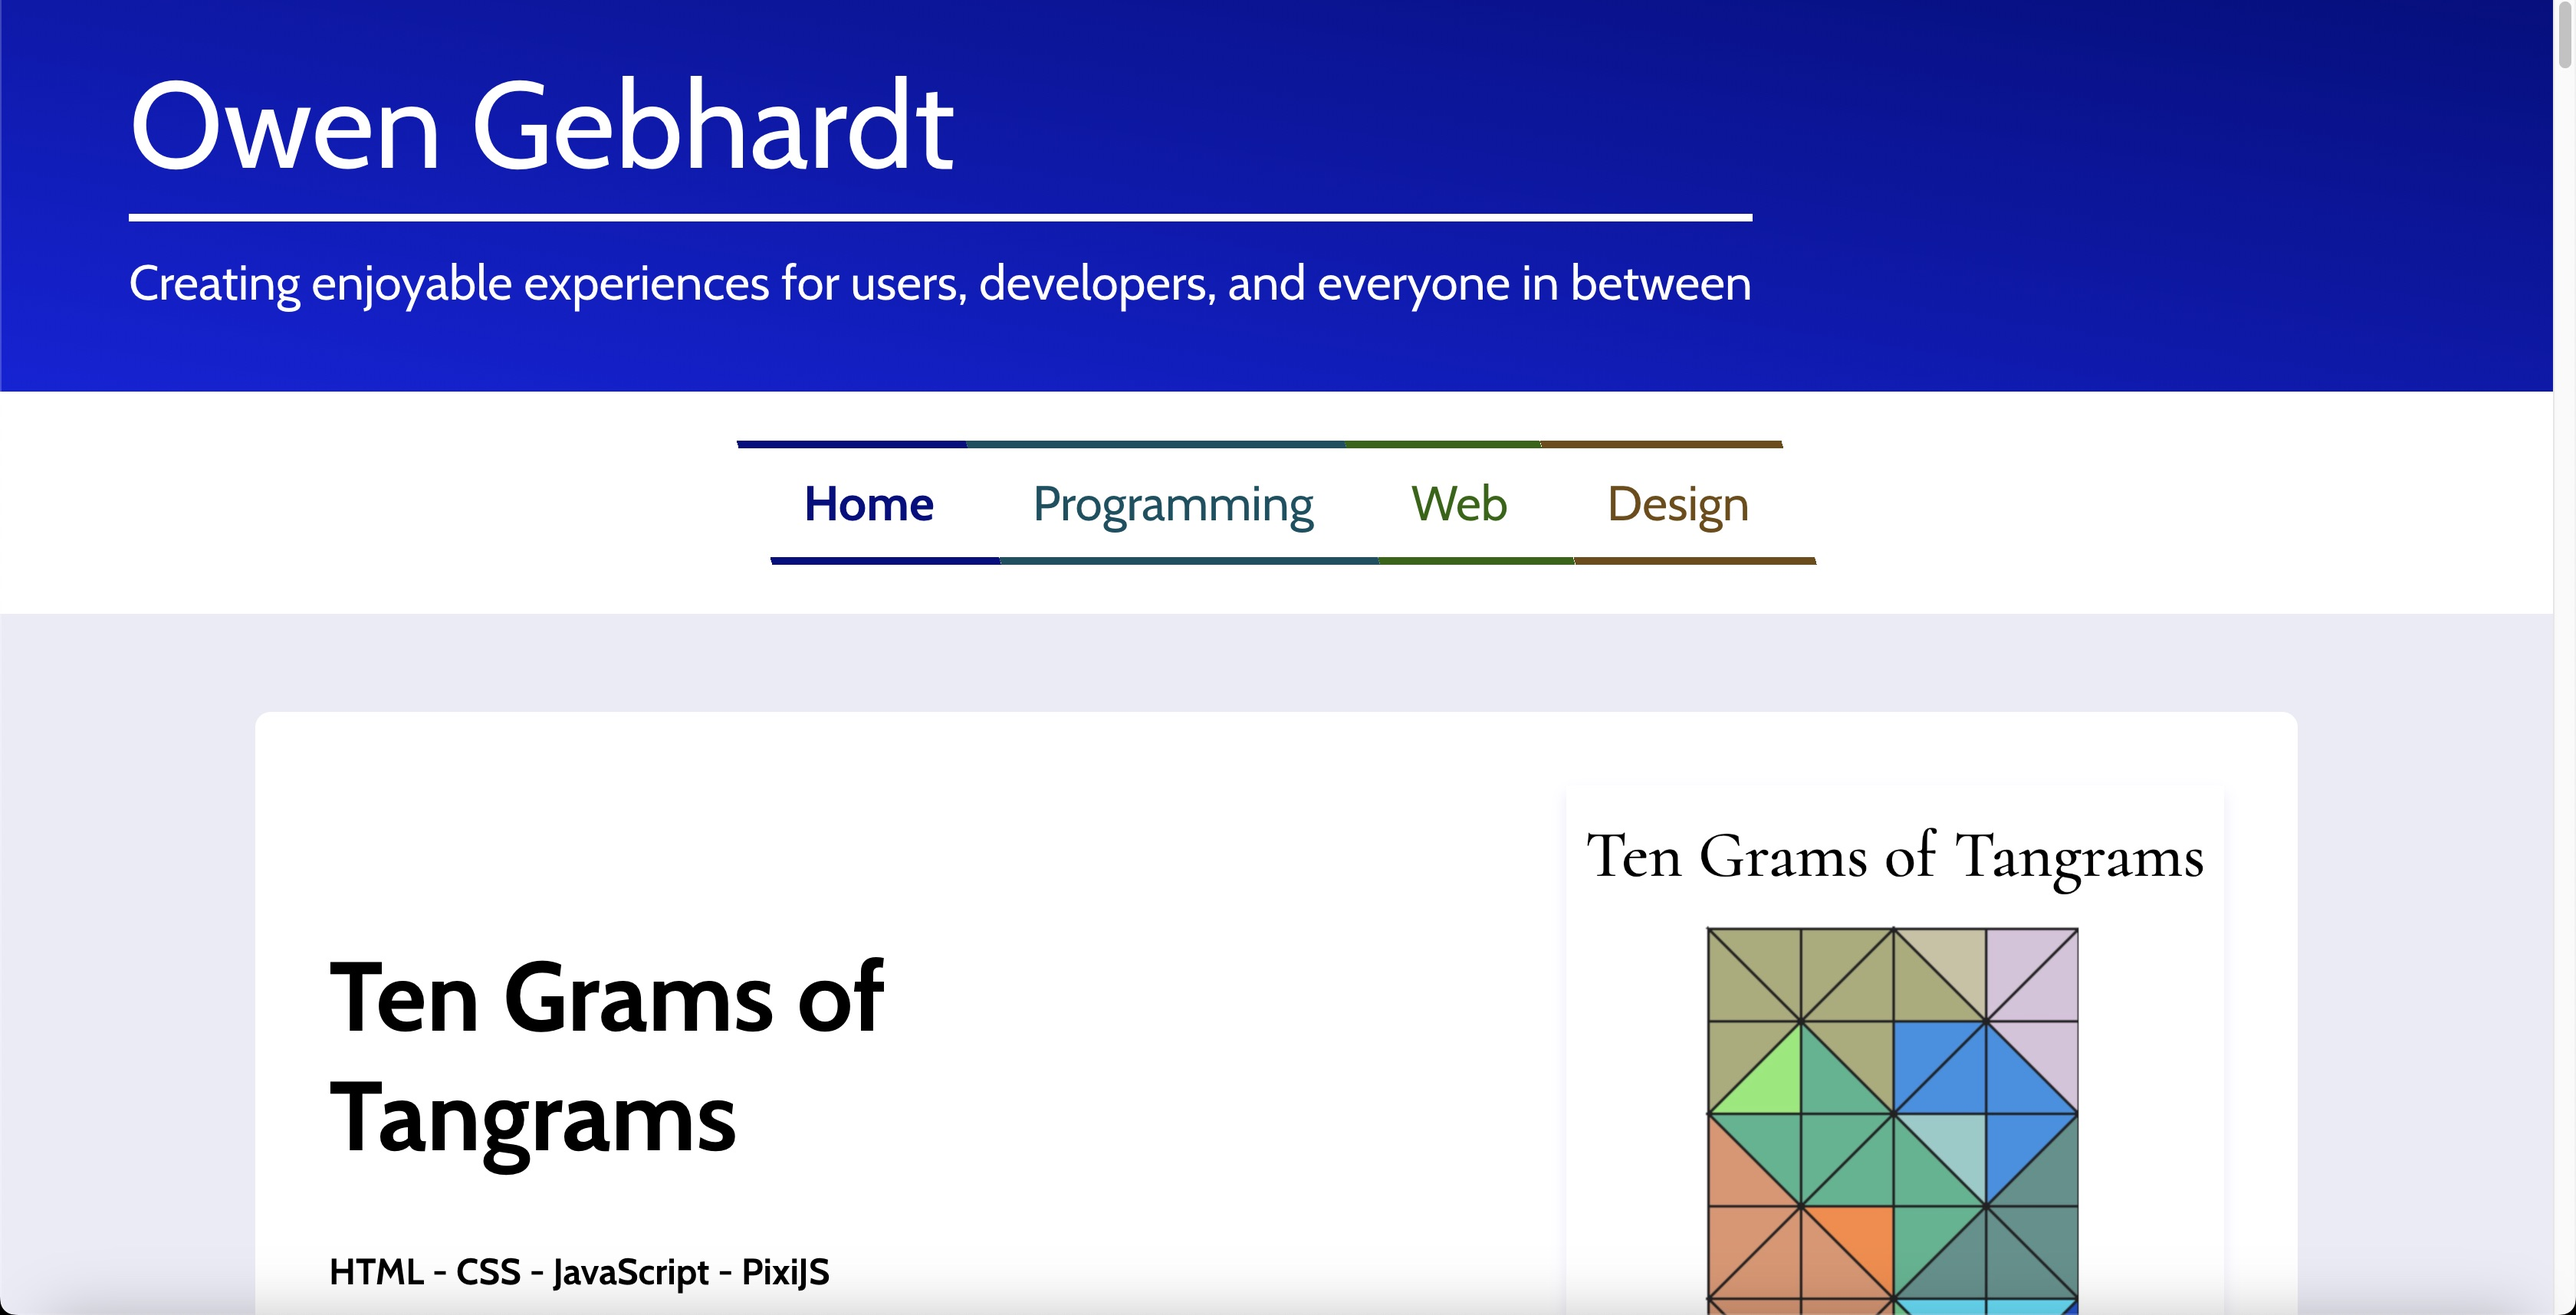
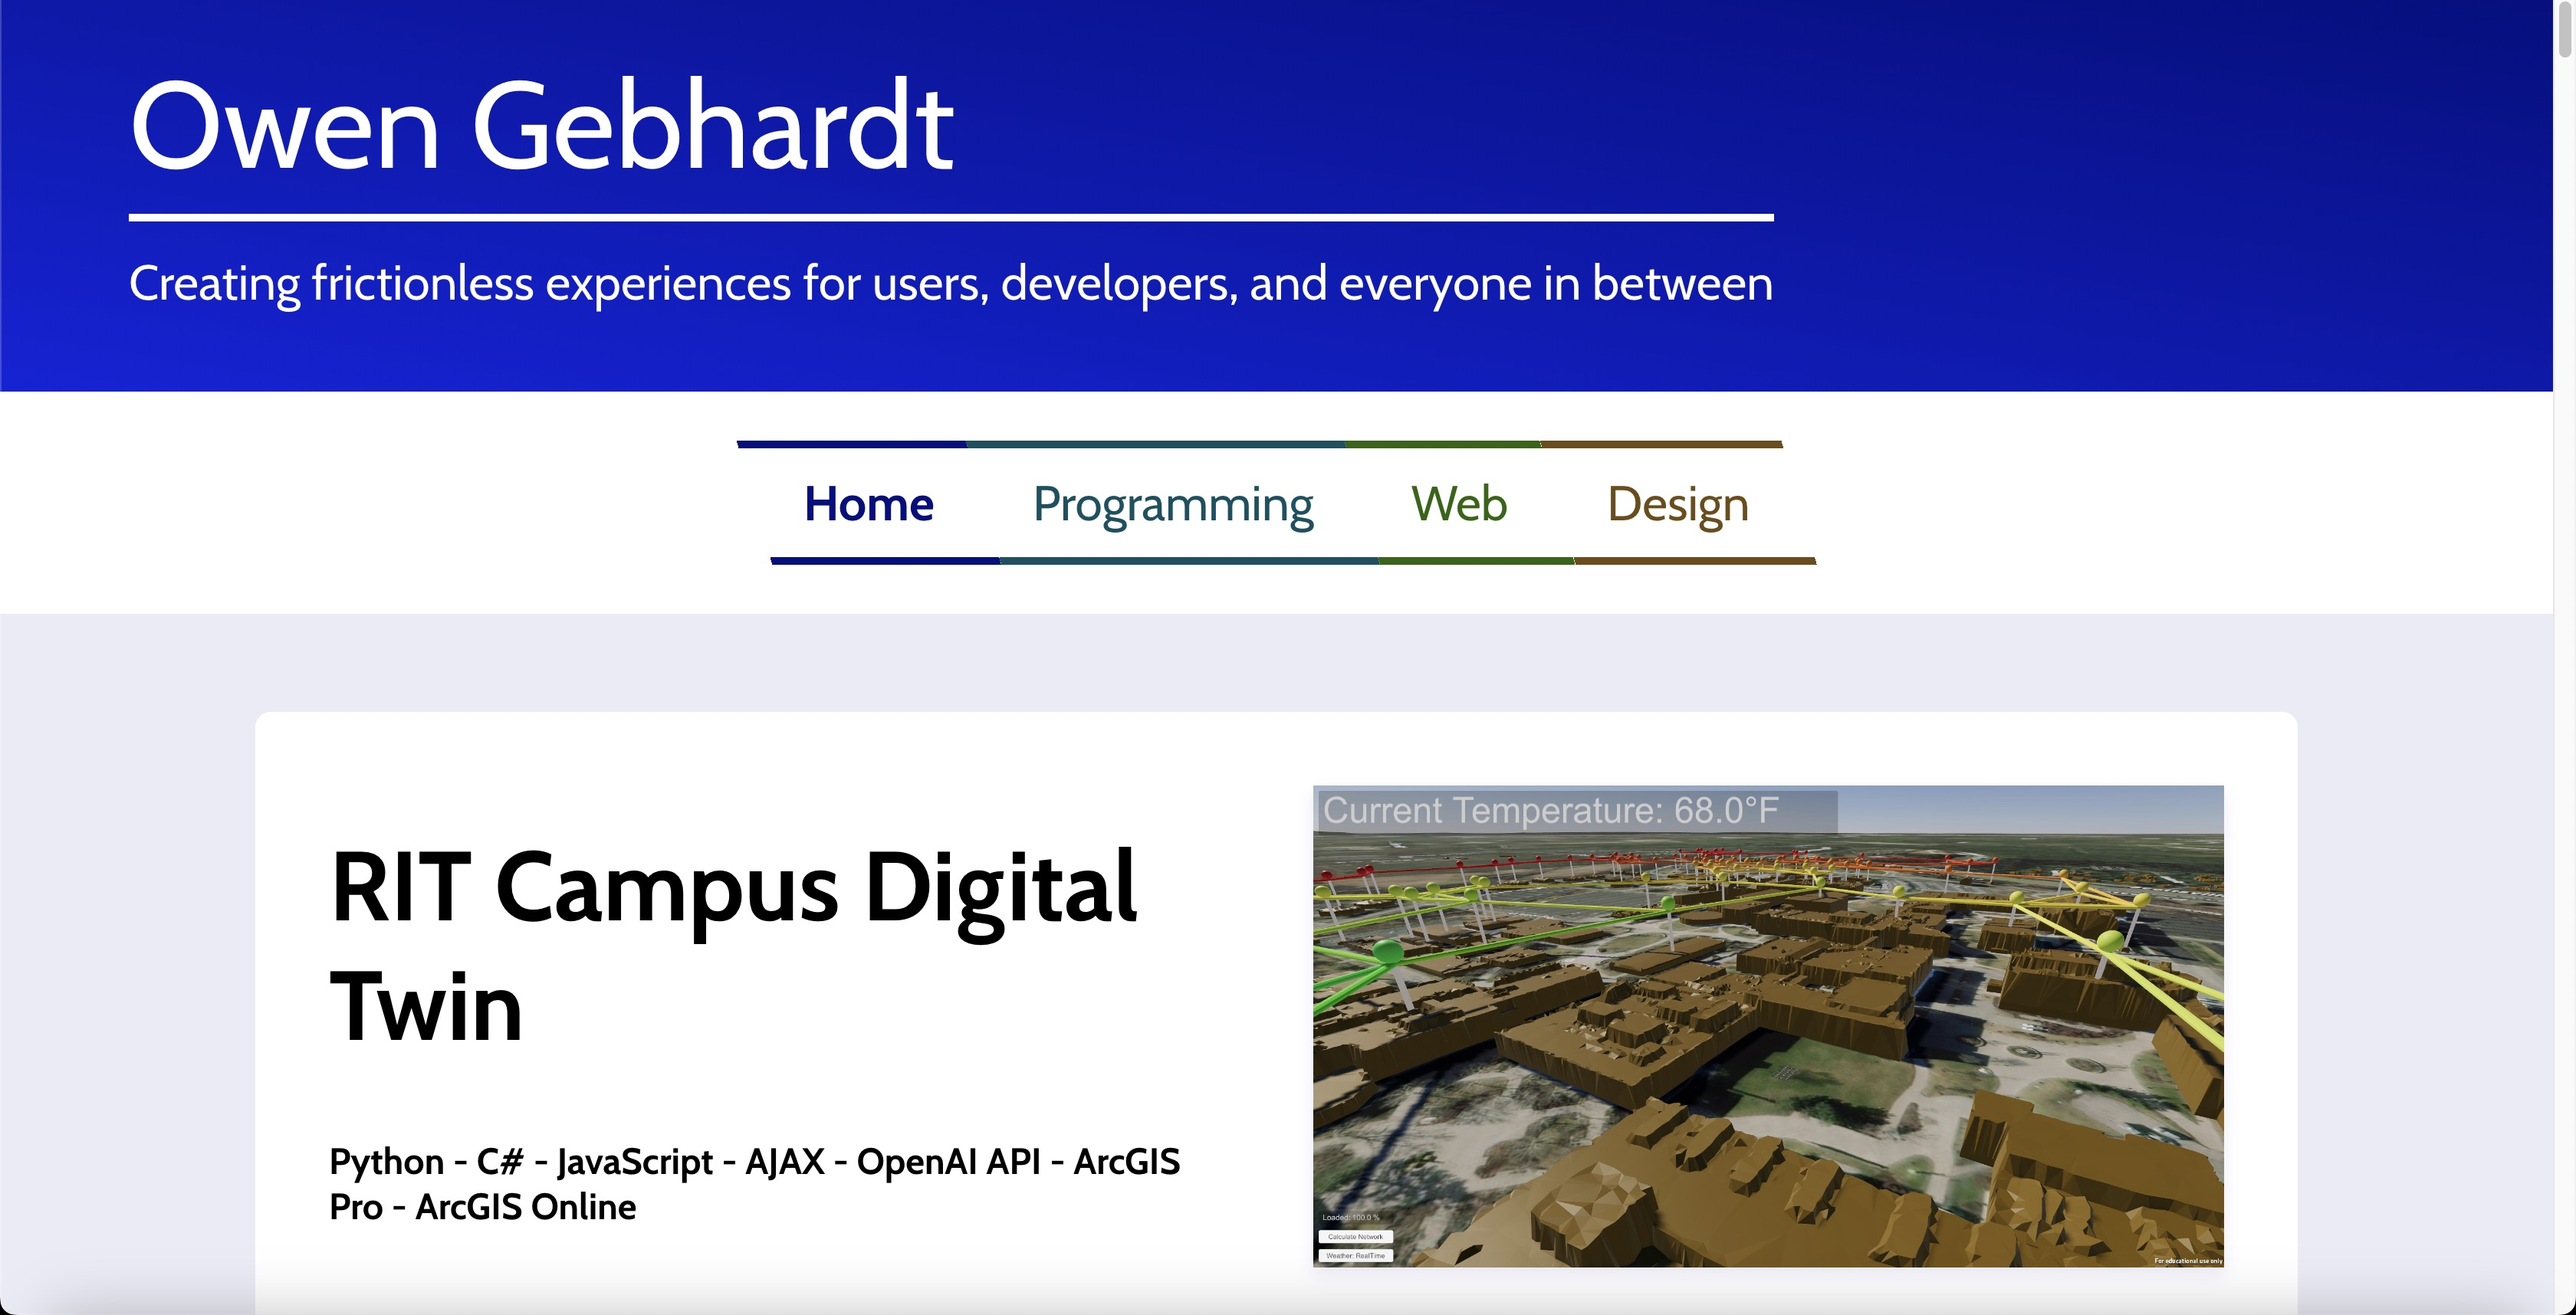
Updated blurb and portfolio-site images

diff --git a/src/index.tsx b/src/index.tsx
@@ -12,7 +12,7 @@ createRoot(document.getElementById("root")!).render(
     <StrictMode>
         <Header
             title="Owen Gebhardt"
-            subtitle="Creating enjoyable experiences for users, developers, and everyone in between"
+            subtitle="Creating frictionless experiences for users, developers, and everyone in between"
         />
         <Nav/>
         <main>
